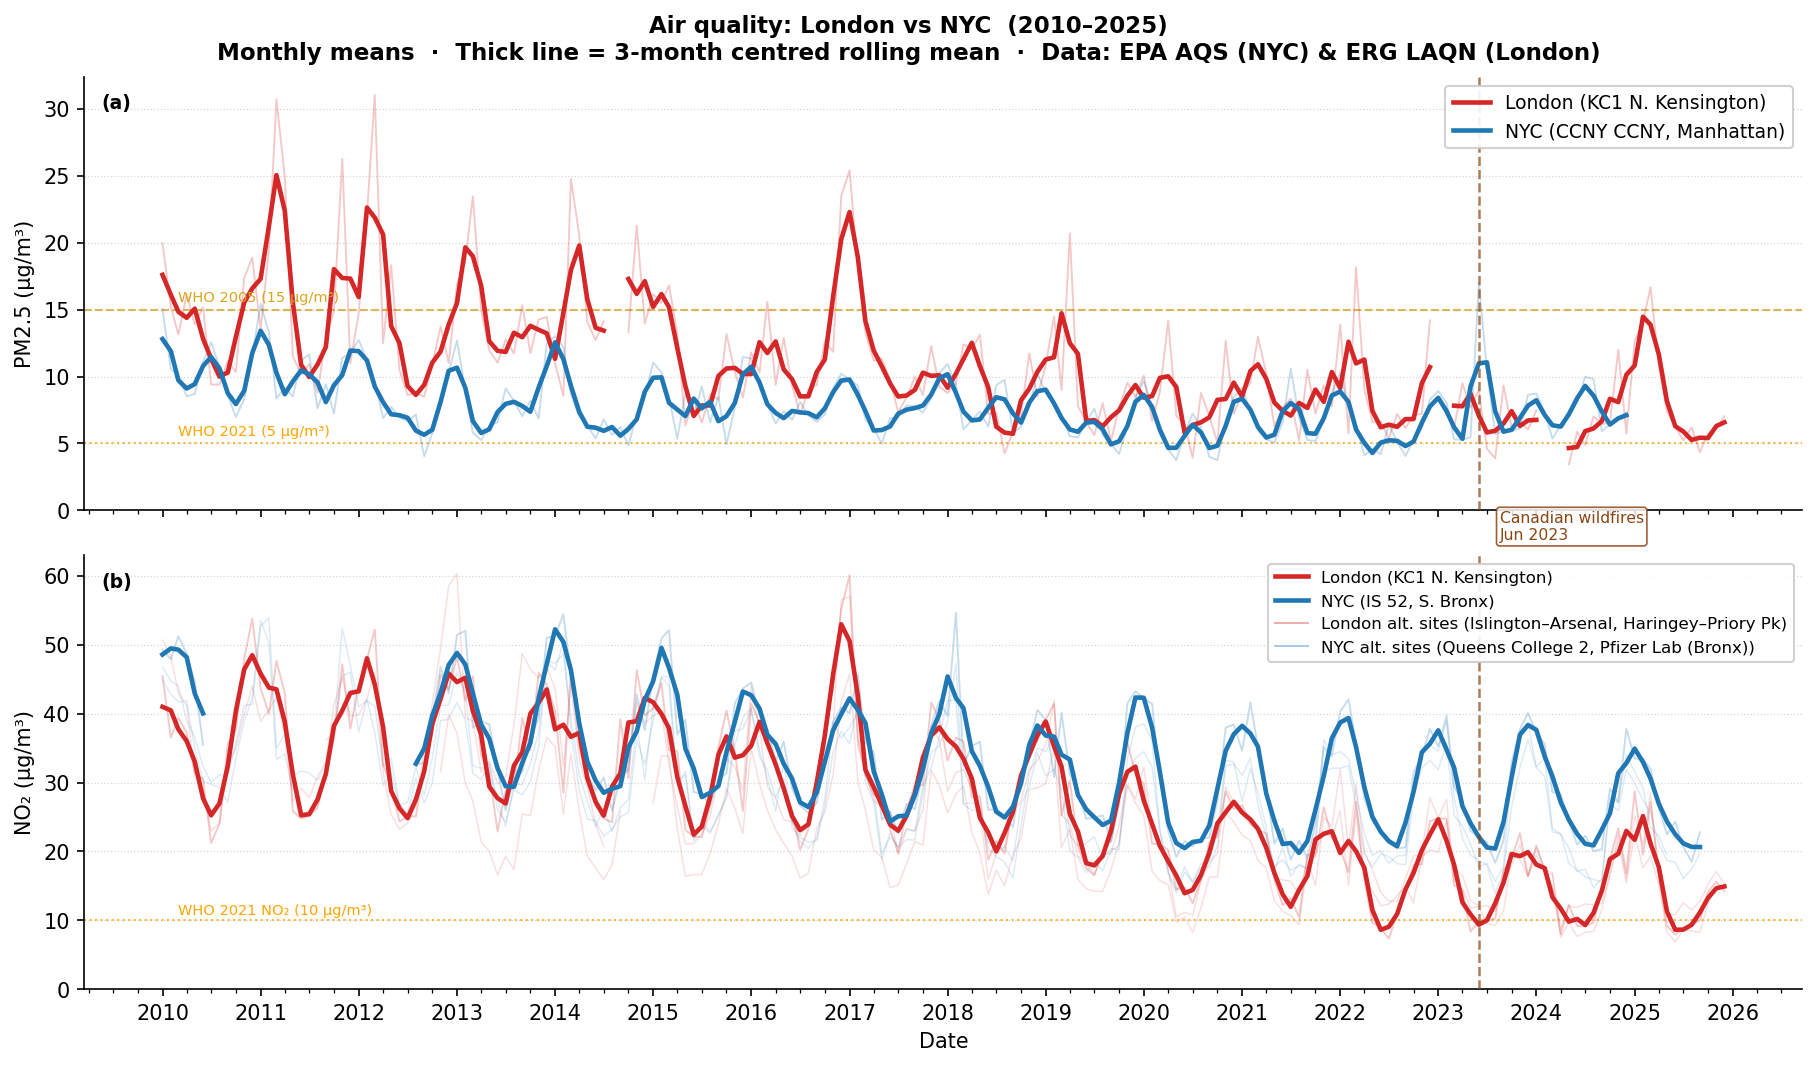
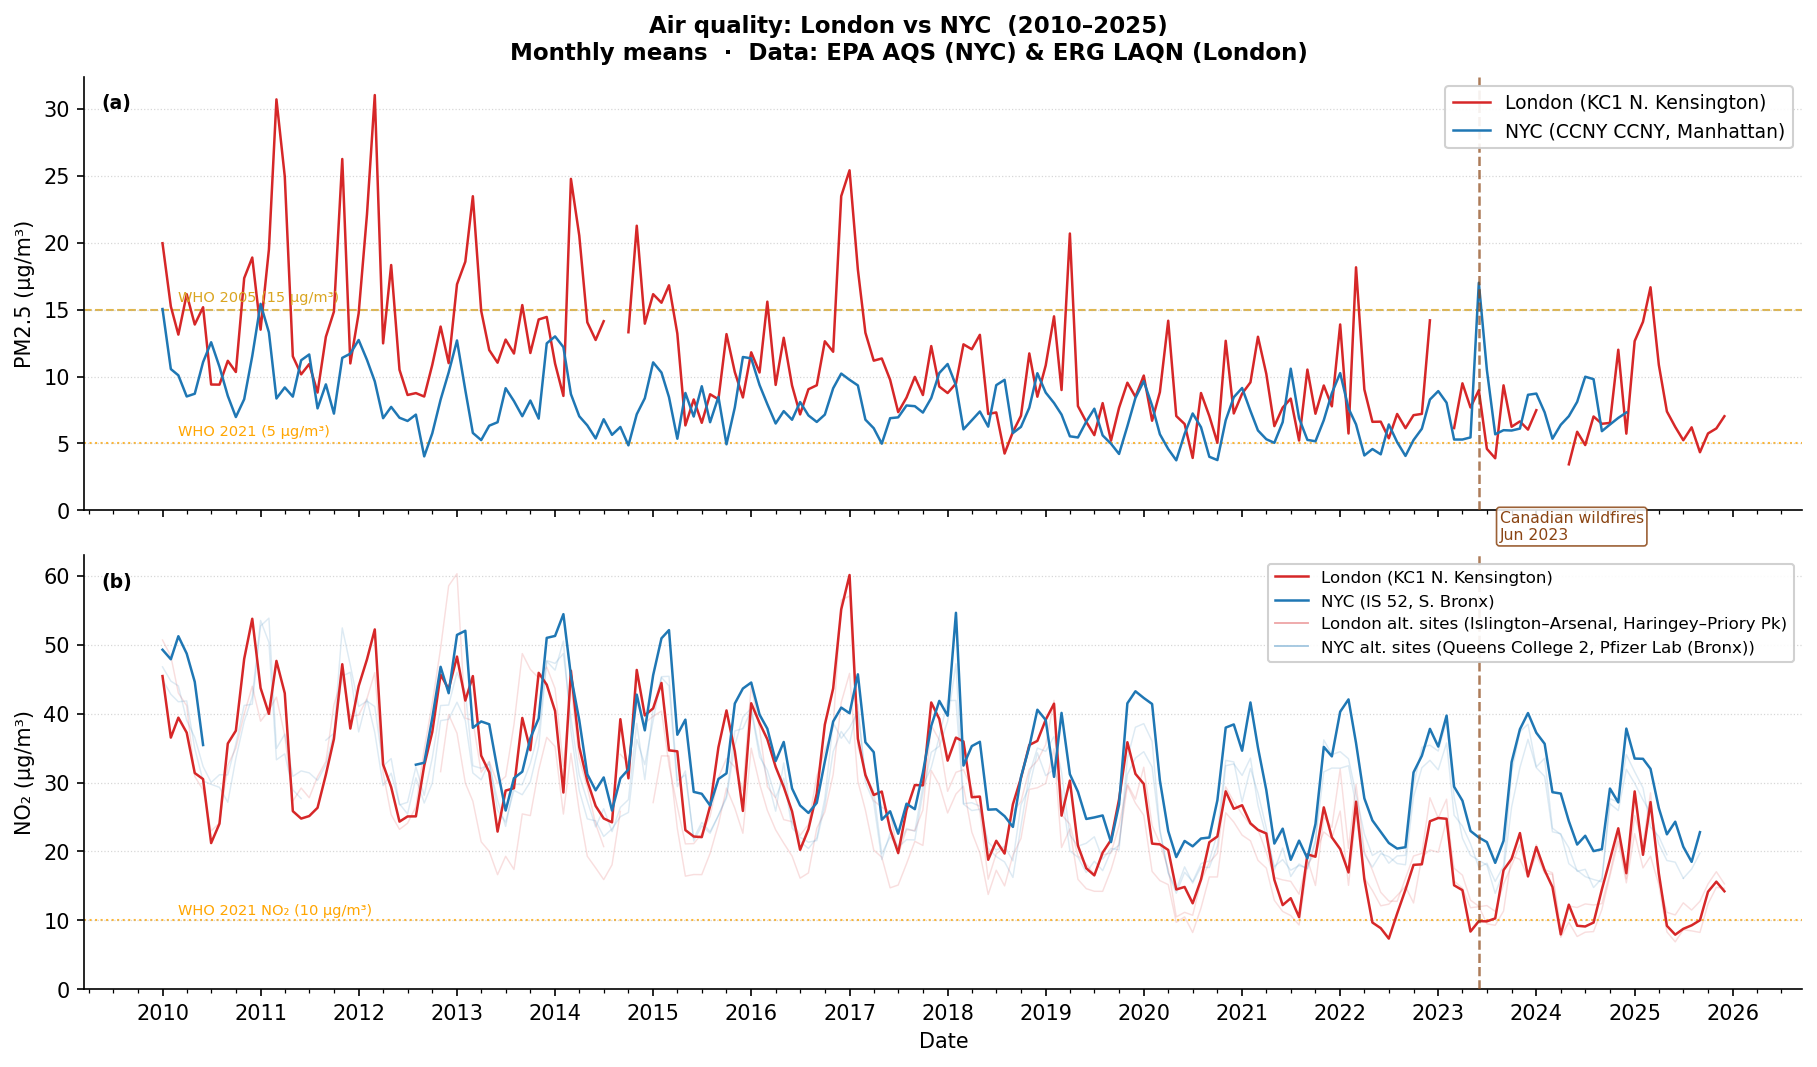
Air quality: remove rolling mean, plot raw monthly means only

diff --git a/lon_nyc/plots.py b/lon_nyc/plots.py
@@ -616,10 +616,8 @@ def plot_air_quality(
             return
         x = df["date"]
         y = df["mean_conc"]
-        roll = y.rolling(rolling_months, center=True, min_periods=2).mean()
 
-        ax.plot(x, y, color=colour, alpha=0.25, linewidth=0.9, zorder=2)
-        ax.plot(x, roll, color=colour, linewidth=2.2, label=label, zorder=3)
+        ax.plot(x, y, color=colour, linewidth=1.2, label=label, zorder=2)
 
     # ---- PM2.5 panel ----
     _plot_series(ax_pm, lon_pm25, LON_COLOUR, lon_label)
@@ -728,7 +726,7 @@ def plot_air_quality(
     )
     fig.suptitle(
         f"Air quality: London vs NYC  ({yr_range})\n"
-        f"Monthly means  ·  Thick line = {rolling_months}-month centred rolling mean  ·  "
+        f"Monthly means  ·  "
         f"Data: EPA AQS (NYC) & ERG LAQN (London)",
         fontsize=11,
         fontweight="bold",
